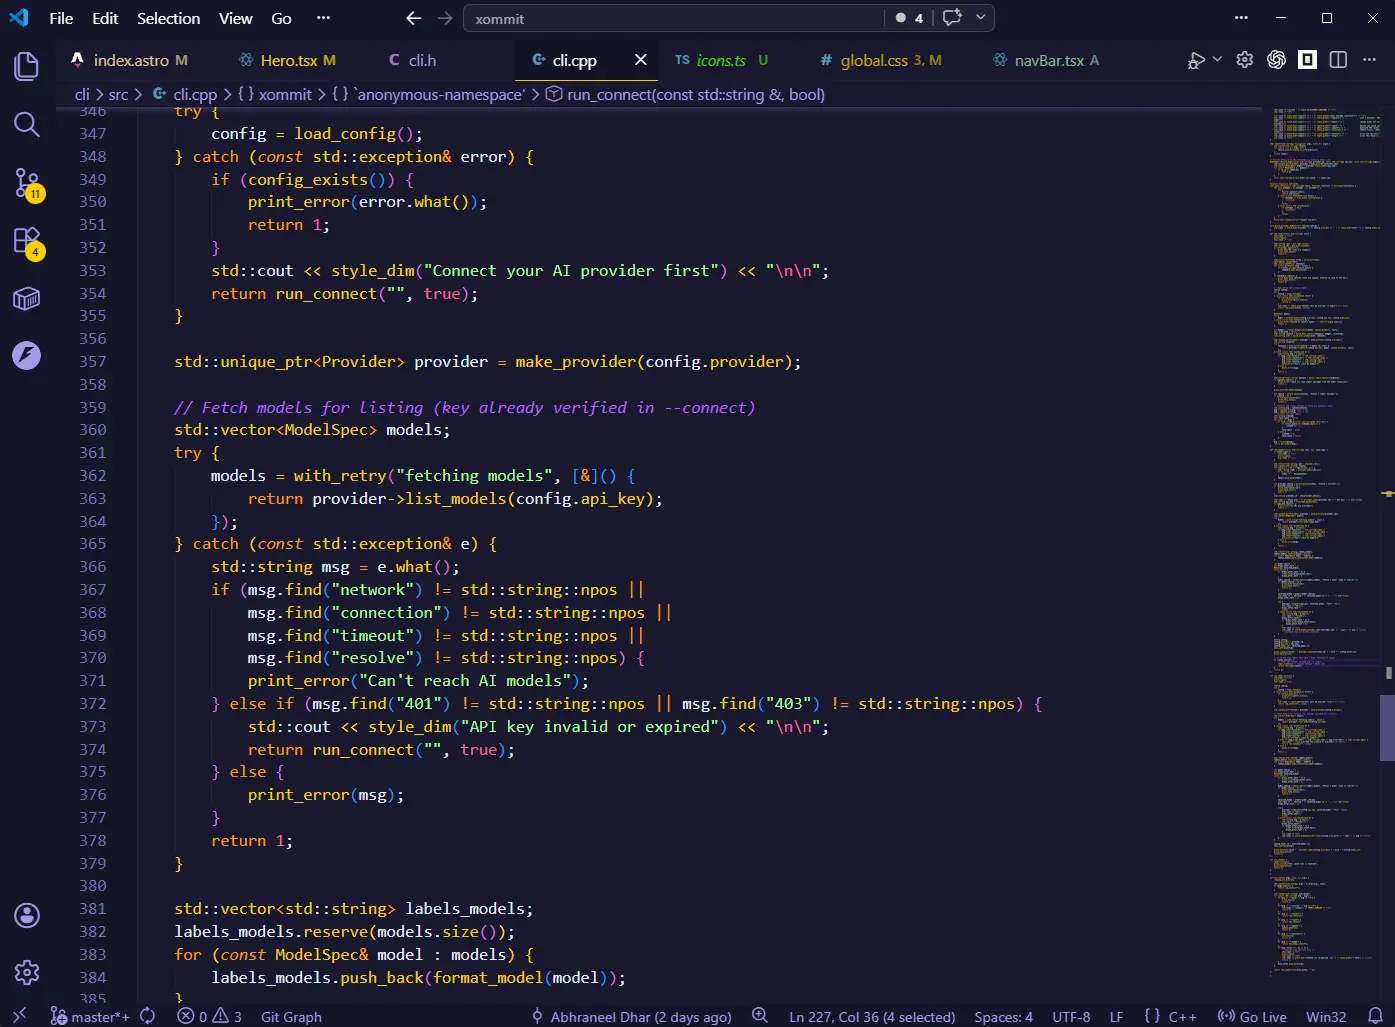
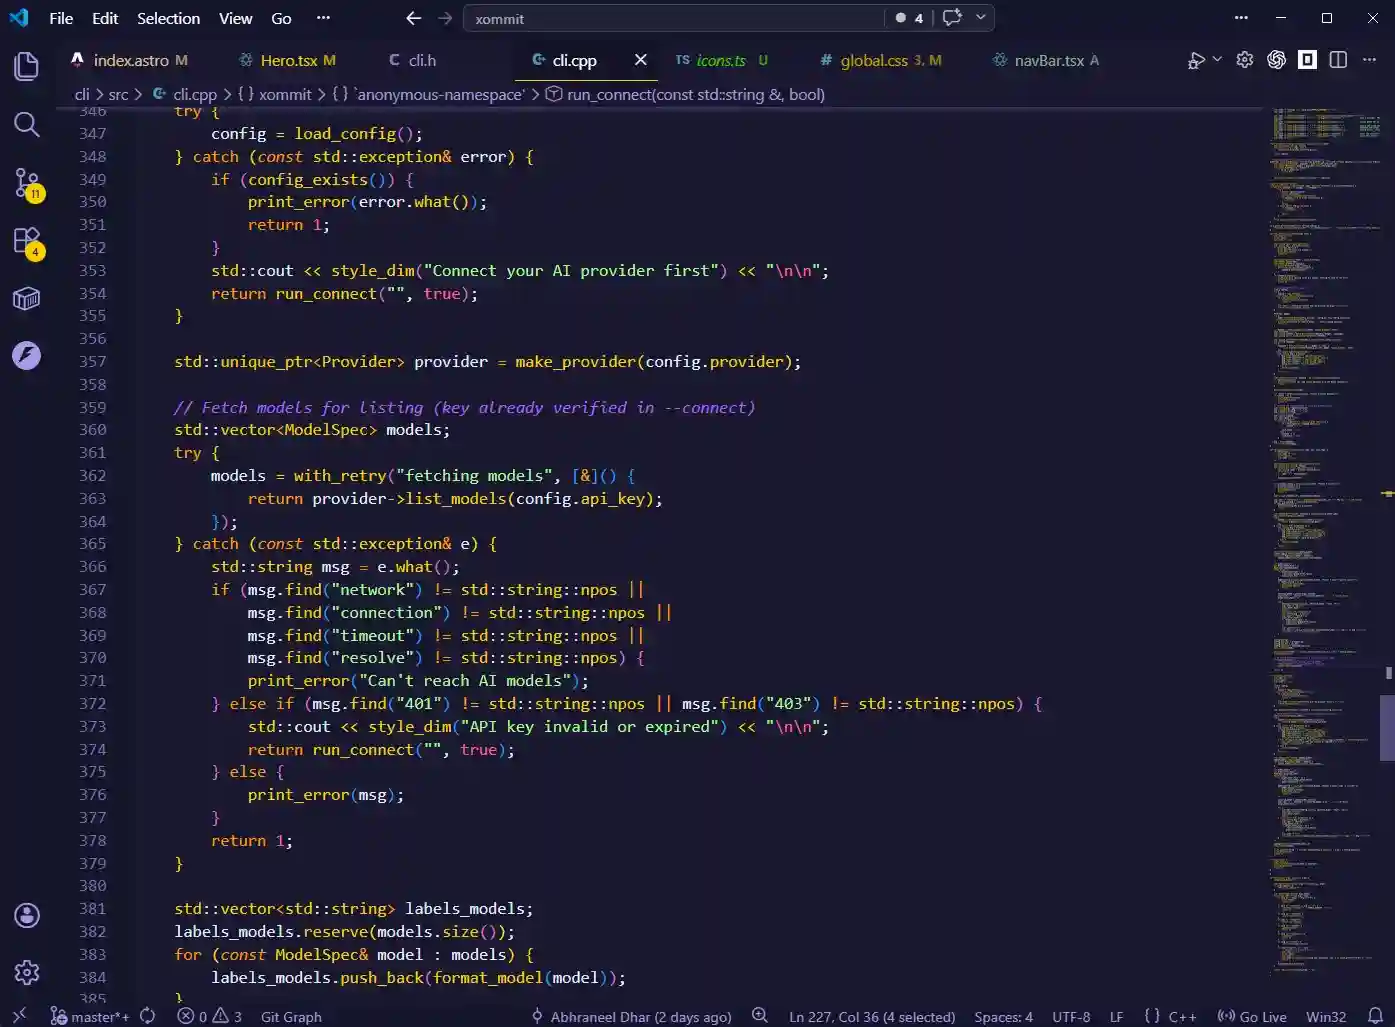
refactor: optimize image loading and enhance performance by switching to lazy loading and using WEBP format

diff --git a/webapp/src/components/sections/Hero.tsx b/webapp/src/components/sections/Hero.tsx
@@ -63,7 +63,7 @@ export default function Hero({ version }: { version: string }) {
 			</div>
 
 
-			<div className="w-full flex">
+			<div className="w-full flex md:w-90">
 				<CopyCommand
 					fill
 					command={activeOption.prompt}
@@ -93,14 +93,14 @@ export default function Hero({ version }: { version: string }) {
 			</div>
 
 			<div className="mt-4 relative overflow-hidden w-full p-5 rounded-md">
-				<img src={GradientImg.src} alt="" loading="eager" fetchPriority="high" decoding="sync" className="object-cover h-full w-full absolute inset-0 z-[-1]" />
+				<img src={GradientImg.src} alt="" width={GradientImg.width} height={GradientImg.height} className="object-cover h-full w-full absolute inset-0 z-[-1]" fetchPriority="high" decoding="sync" loading="eager" />
 
 				<div className="md:absolute top-0 left-0 md:p-6 w-full md:w-[60%] z-[2]">
 					<TerminalDemo />
 				</div>
 
 				<div className="h-fit w-[80%] overflow-hidden ml-auto rounded-lg mt-5 hidden md:flex">
-					<img src={VscodeImg.src} alt="xommit running in a terminal next to a code editor" loading="eager" fetchPriority="high" className="w-full h-fit object-contain overflow-hidden blur-[3px]" />
+					<img src={VscodeImg.src} alt="xommit running in a terminal next to a code editor" width={VscodeImg.width} height={VscodeImg.height} className="w-full h-fit object-contain overflow-hidden blur-[3px]" loading="lazy" fetchPriority="high" decoding="async" />
 				</div>
 
 
@@ -108,10 +108,10 @@ export default function Hero({ version }: { version: string }) {
 			</div>
 
 
-			<p className="text-md flex items-center leading-[1em] w-full my-15 justify-center">
+			<p className="text-md flex items-center leading-[1em] w-full my-15 justify-center gap-5">
 				Supported on
-				<img src={WindowsLogoImg.src} alt="Windows" loading="eager" className="inline aspect-square h-[20px] object-contain grayscale ml-4 transition-all duration-default hover:grayscale-0" />
-				<img src={LinuxLogoImg.src} alt="Linux" loading="eager" className="inline aspect-square h-[20px] object-contain grayscale mx-4.5 transition-all duration-default hover:grayscale-0" />
+				<img src={WindowsLogoImg.src} alt="Windows" width={WindowsLogoImg.width} height={WindowsLogoImg.height} className="inline aspect-square h-[20px] w-[20px] object-contain grayscale transition-all duration-default hover:grayscale-0" loading="lazy" decoding="async" />
+				<img src={LinuxLogoImg.src} alt="Linux" width={LinuxLogoImg.width} height={LinuxLogoImg.height} className="inline aspect-square h-[20px] w-[20px] object-contain grayscale transition-all duration-default hover:grayscale-0" loading="lazy" decoding="async" />
 			</p>
 
 

diff --git a/webapp/src/components/navBar.tsx b/webapp/src/components/navBar.tsx
@@ -28,18 +28,18 @@ export default function NavBar() {
             <nav aria-label="Site links" className={cn("flex justify-between items-center transition-all duration-default ease-in-out w-full mx-auto max-w-[5000px]", compactNavbar && "max-w-[1200px] ")}>
                 <div className="flex items-center gap-3">
                     <div className="rounded-xs overflow-hidden p-[2px] bg-destructive h-[27px] aspect-square grayscale group-hover/navbar:grayscale-0 transition-all duration-default ">
-                        <img src={XommitLogo.src} alt="xommit" loading="eager" fetchPriority="high" decoding="sync" className="h-full w-full object-cover" />
+                        <img src={XommitLogo.src} alt="xommit" width={XommitLogo.width} height={XommitLogo.height} className="h-full w-full object-cover" loading="lazy" decoding="async" />
                     </div>
                     <p className="text-sm text-muted-foreground leading-[0px]">3mb build</p>
                 </div>
 
                 <div className="flex gap-3 items-center">
                     <a href="https://github.com/abhraneeldhar7/xommit" target="_blank" rel="noopener" aria-label="xommit on GitHub" className="rounded-xs p-[7px] hover:bg-muted transition-all duration-default">
-                        <img src={githubLogo.src} alt="GitHub" loading="eager" fetchPriority="high" className="h-[20px] object-contain w-fit invert" />
+                        <img src={githubLogo.src} alt="GitHub" width={githubLogo.width} height={githubLogo.height} className="h-[20px] object-contain w-fit invert" loading="lazy" decoding="async" />
                     </a>
 
                     <a href="https://www.npmjs.com/package/@antkin/xommit" target="_blank" rel="noopener" aria-label="xommit on npm" className="rounded-xs p-[7px] pb-[5px] hover:bg-muted transition-all duration-default">
-                        <img src={npmLogo.src} alt="npm" loading="eager" fetchPriority="high" className="h-[20px] object-contain w-fit grayscale group-hover/navbar:grayscale-0 transition-all duration-default" />
+                        <img src={npmLogo.src} alt="npm" width={npmLogo.width} height={npmLogo.height} className="h-[20px] object-contain w-fit grayscale group-hover/navbar:grayscale-0 transition-all duration-default" loading="lazy" decoding="async" />
                     </a>
                 </div>
             </nav>
